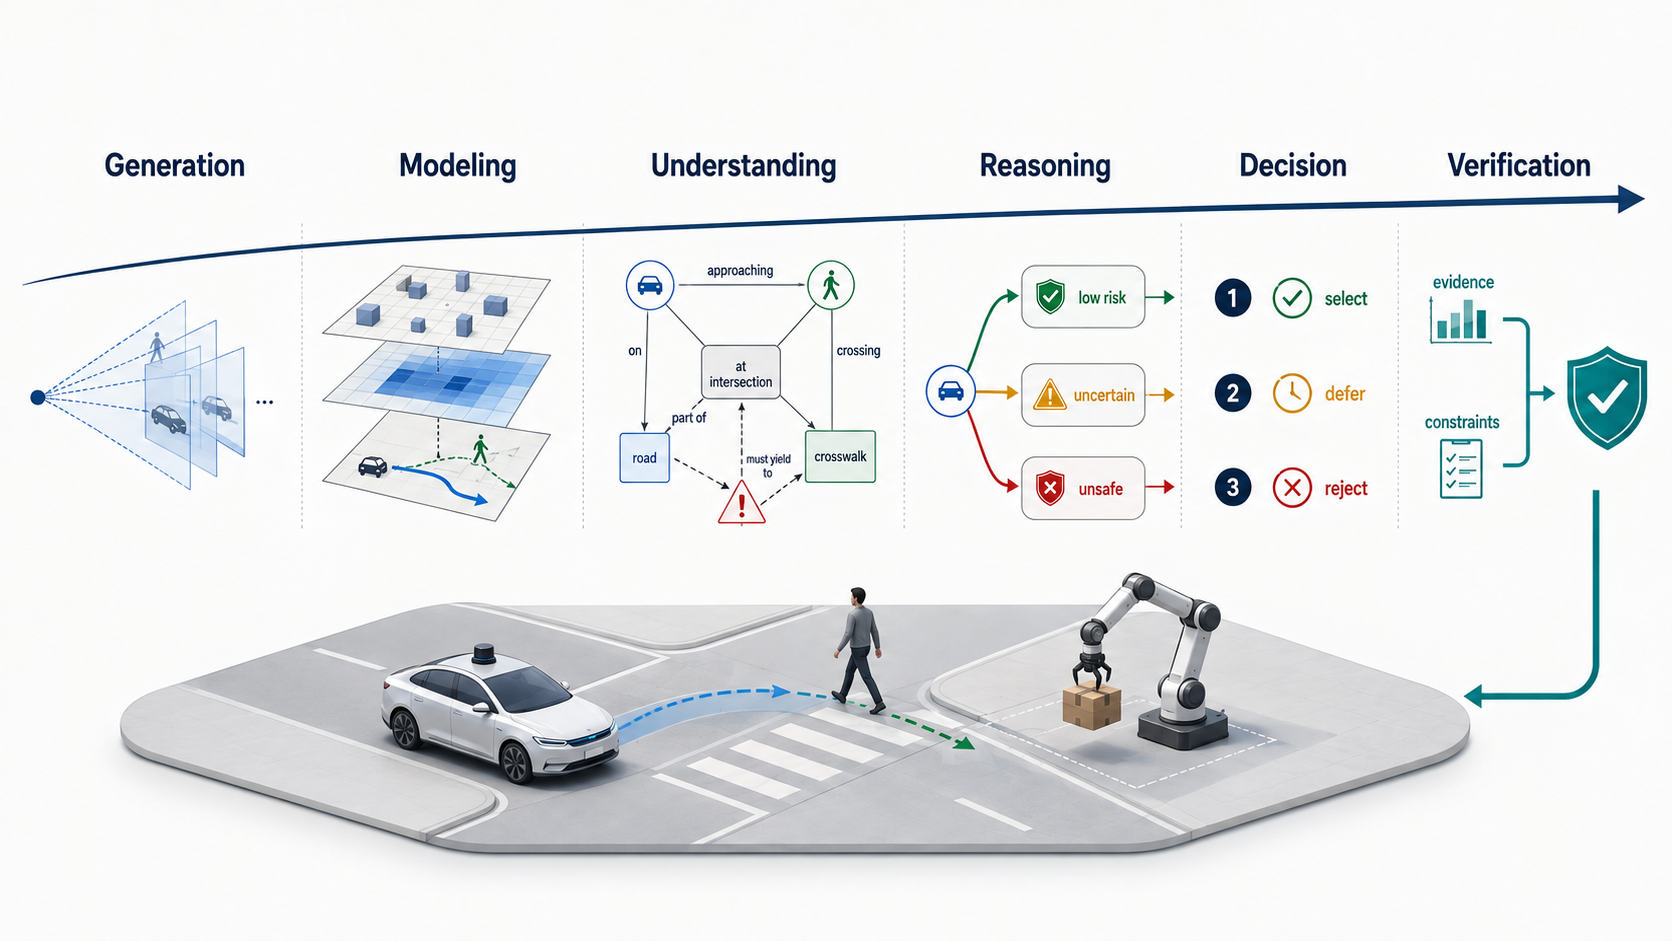
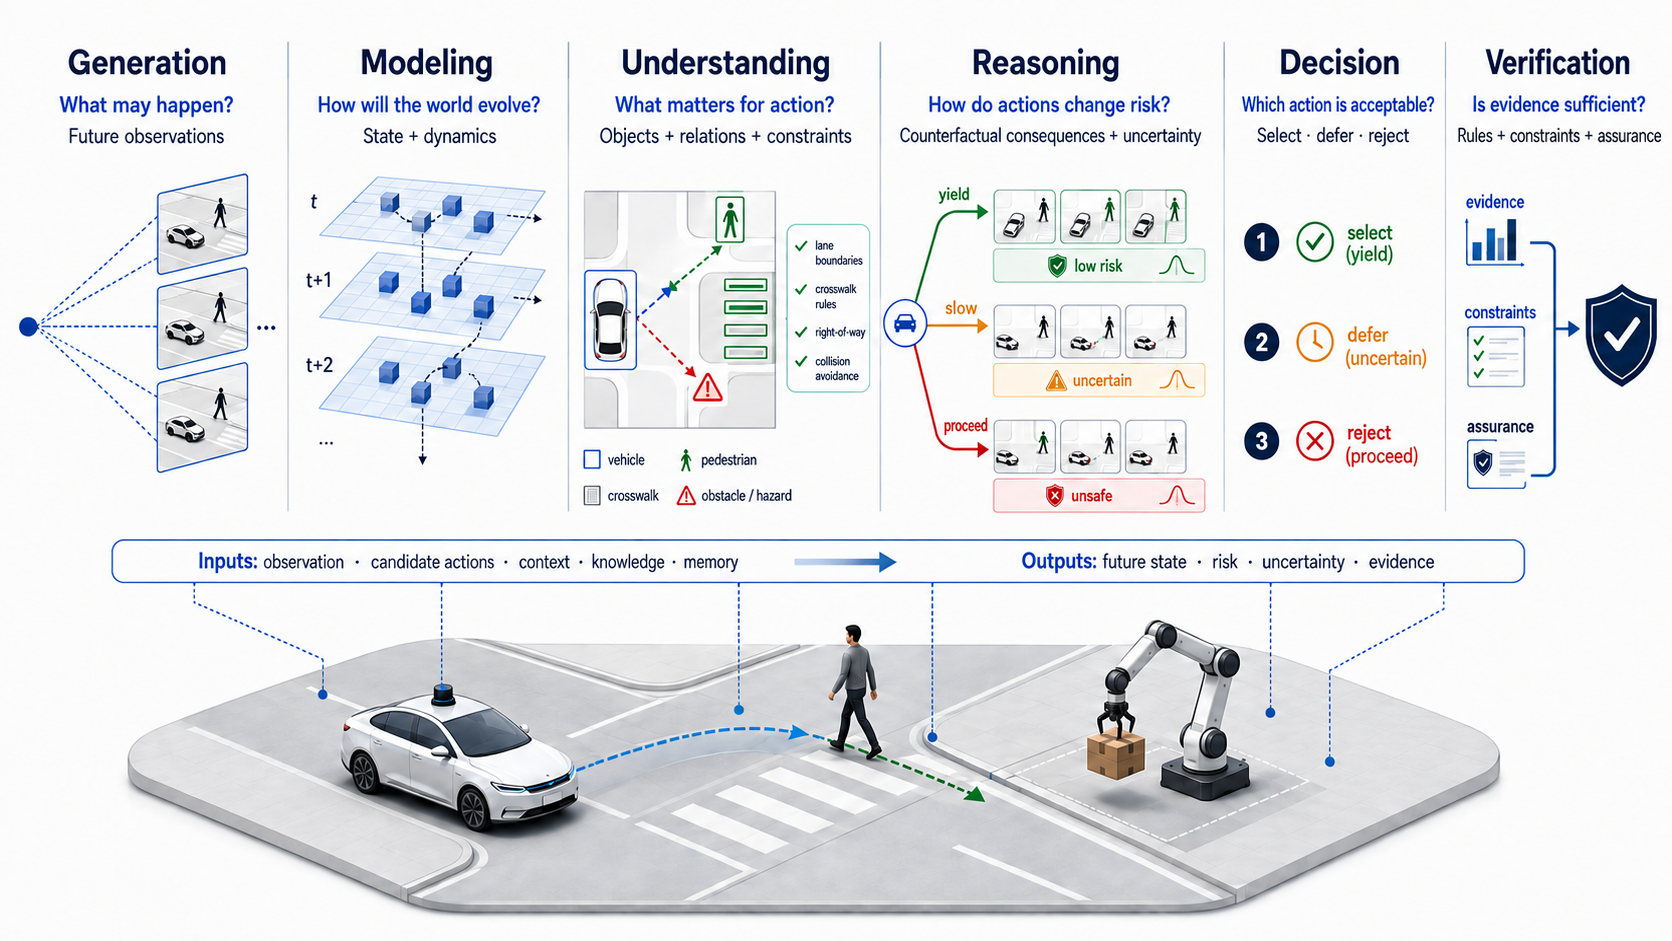
Add decision-relevant detail to world models figure

Changed region(s): [[0.0, 0.0308, 0.9952, 0.5855], [0.0622, 0.5239, 0.9641, 0.9862]]

diff --git a/design/world-models-safe-embodied-raster-prompt.md b/design/world-models-safe-embodied-raster-prompt.md
@@ -92,3 +92,41 @@ Use the approved open progression skeleton rather than six containers. Place the
 - **Conciseness — pass:** each stage contains one unique evidence type; repeated scenes, icon grids, dashboards, and duplicate verification elements are removed.
 - **Readability — pass:** the six headings and global progression remain recognizable in the 1672 × 941 export and the 380 × 214 reduction.
 - **Aesthetics — pass:** one coherent 2.5D environment, controlled semantic palette, open grouping, and clean connector routing replace the previous collage-like density.
+
+## Information augmentation pass
+
+### Critic finding
+
+The open-layout version passes the visual-noise test, but most meaning is still carried by the six headings. Several technical marks require interpretation and do not state the capability increment explicitly.
+
+### Required semantic annotations
+
+Each capability must show one concise question and one explicit output, with the following wording preserved:
+
+| Capability | Core question | Decision-relevant output |
+|---|---|---|
+| Generation | What may happen? | Future observations |
+| Modeling | How will the world evolve? | State + dynamics |
+| Understanding | What matters for action? | Objects + relations + constraints |
+| Reasoning | How do actions change risk? | Counterfactual consequences + uncertainty |
+| Decision | Which action is acceptable? | Select · defer · reject |
+| Verification | Is evidence sufficient? | Rules + constraints + assurance |
+
+Add one compact cross-stage information contract below the capability row:
+
+**Inputs:** observation · candidate actions · context · knowledge · memory
+
+**Outputs:** future state · risk · uncertainty · evidence
+
+The annotations must replace ambiguous visual decoration rather than being added on top of it. Remove any internal labels that duplicate the new text. Preserve the single shared embodied scene and the exact six-stage ordering.
+
+### Action-risk consistency
+
+Use the same three candidate actions in the reasoning and decision stages so their semantics remain traceable: `yield → low risk`, `slow → uncertain`, and `proceed → unsafe`. The decision examples must therefore read `select (yield)`, `defer (uncertain)`, and `reject (proceed)`. These are illustrative outcomes for the depicted pedestrian-crossing context, not universal action labels.
+
+### Augmented-version QA
+
+- **Information density — pass:** every capability now exposes a question, a decision-relevant output, and a distinct visual operation.
+- **End-to-end contract — pass:** the figure names both the conditioning information and the risk-aware outputs.
+- **Action semantics — pass:** counterfactual branches and downstream decisions use consistent action-risk pairings.
+- **Thumbnail readability — pass:** the hierarchy remains recognizable in a 420-pixel-wide reduction; the high-resolution export is 1672 × 941.
